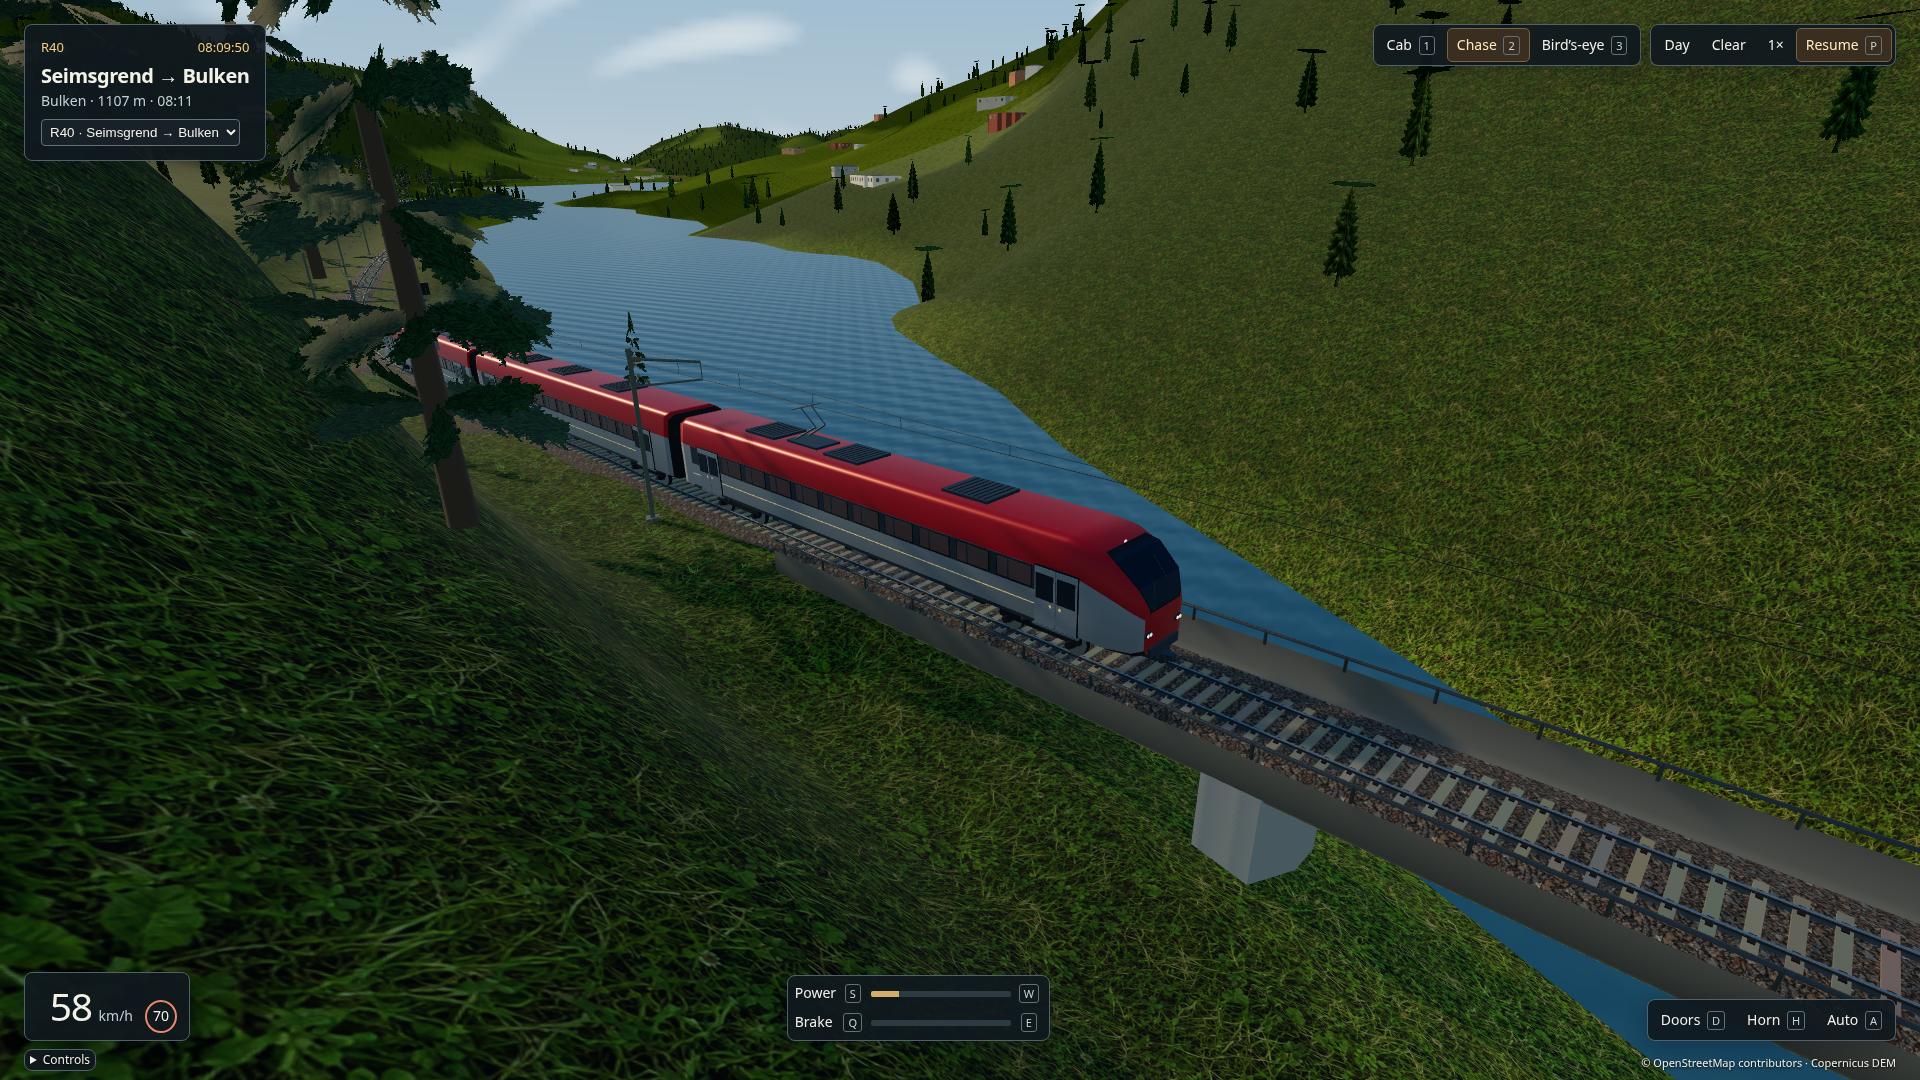
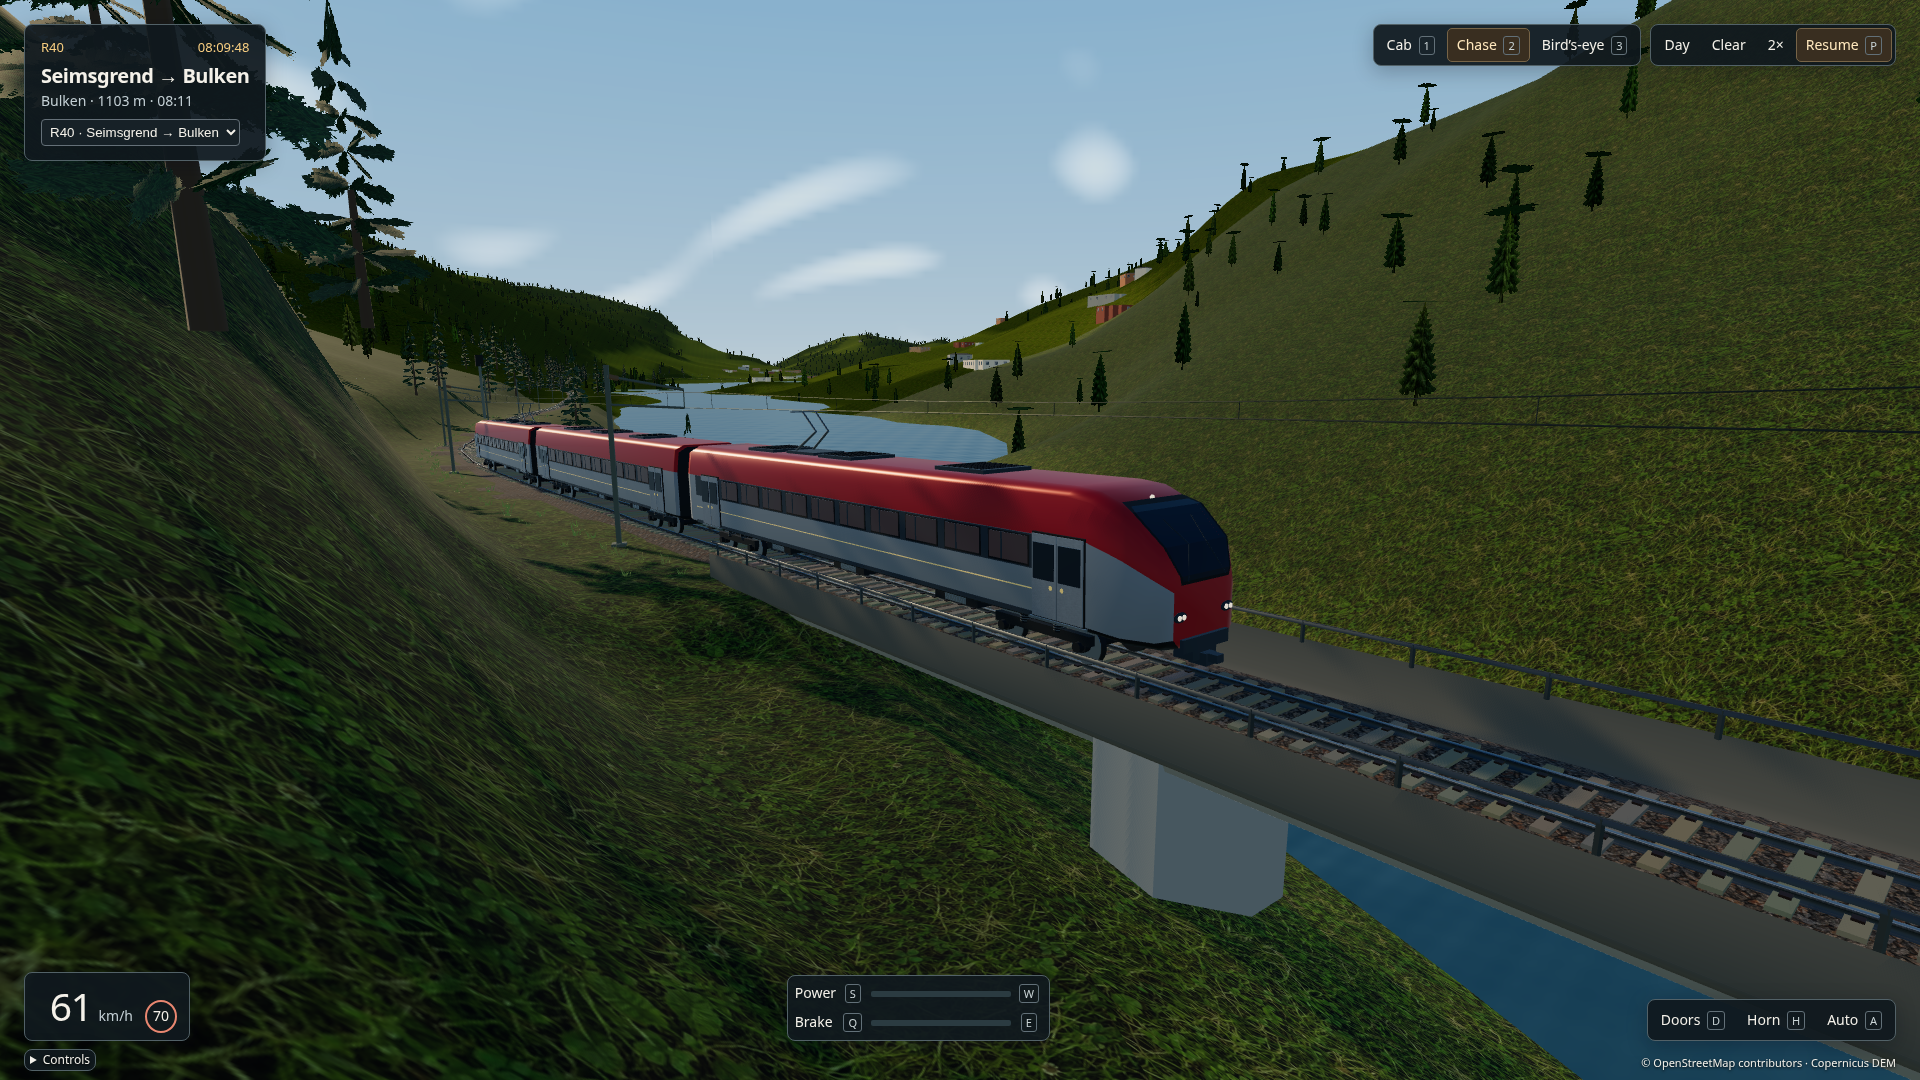
Record the manual Bulken arrival and preserve close scenery detail

diff --git a/src/scenery.ts b/src/scenery.ts
@@ -702,6 +702,9 @@ function addTrack(
   }
 
   const limited: { mesh: InstancedMesh; radius: number }[] = [];
+  const detailRange = new Map([
+    [ties, 290], [fasteners, 180], [conductors, 310], [porcelain, 190],
+  ]);
   for (const [surface, entries] of [
     [sleeper, ties], [clips, fasteners], [support, posts], [wire, conductors],
     [insulator, porcelain], [concrete, piers], [steel, bridgeDetail],
@@ -713,9 +716,8 @@ function addTrack(
       if (entries === piers) detail.name = 'Bridge pier';
       if (entries === bridgeDetail) detail.name = 'Bridge railing';
       detail.castShadow = entries !== fasteners && entries !== conductors;
-      if (entries === ties || entries === fasteners) {
-        limited.push({ mesh: detail, radius: entries === ties ? 520 : 220 });
-      }
+      const radius = detailRange.get(entries);
+      if (radius !== undefined) limited.push({ mesh: detail, radius });
       group.add(detail);
     }
   }
@@ -1608,12 +1610,18 @@ function addForests(
   const silhouettes = distantSpruceGeometry();
   const trunk = new CylinderGeometry(0.3, 0.6, 1, 6);
   const bark = material(0x504234);
+  const nearDetails: { spruce: InstancedMesh; trunks: InstancedMesh; distant: InstancedMesh }[] = [];
   for (const tile of tiles.values()) {
     if (tile.near.length) {
       const spruce = aggregate(sprays, foliage, tile.near);
       spruce.name = 'Trackside spruce';
       spruce.castShadow = true;
-      group.add(spruce, aggregate(trunk, bark, tile.trunks));
+      const trunks = aggregate(trunk, bark, tile.trunks);
+      const distant = aggregate(silhouettes, distantFoliage, tile.near);
+      distant.name = 'Trackside spruce canopy';
+      distant.visible = false;
+      nearDetails.push({ spruce, trunks, distant });
+      group.add(spruce, trunks, distant);
     }
     if (tile.far.length) {
       const canopy = aggregate(silhouettes, distantFoliage, tile.far);
@@ -1621,6 +1629,14 @@ function addForests(
       group.add(canopy);
     }
   }
+  return (camera: Vector3) => {
+    for (const { spruce, trunks, distant } of nearDetails) {
+      const bounds = spruce.boundingSphere;
+      const detailed = bounds ? camera.distanceToSquared(bounds.center) <= (bounds.radius + 175) ** 2 : true;
+      spruce.visible = trunks.visible = detailed;
+      distant.visible = !detailed;
+    }
+  };
 }
 
 type SignalAspect = 'clear' | 'approach' | 'stop';
@@ -1925,7 +1941,7 @@ export function createScenery(data: WorldData, rail: Rail, maps: SceneryMaps = {
   addParallelTracks(group, data, nearby, ballast);
   addWater(group, data, water);
   addBuildings(group, data, windows, roofs, maps.siding, nearby);
-  addForests(group, data, nearby, foliage, distantFoliage, placement?.ownsCell);
+  const applyForestDetail = addForests(group, data, nearby, foliage, distantFoliage, placement?.ownsCell);
   const grass = addTracksideGrass(group, data, rail, nearby);
   const setSignal = addSignals(group, data, nearby);
   const bulbs = addPlatforms(group, data, rail, concrete, fixtures, nearby);
@@ -1960,6 +1976,7 @@ export function createScenery(data: WorldData, rail: Rail, maps: SceneryMaps = {
   const update = (seconds: number, camera: Vector3) => {
     grass.applyDistance(camera);
     applyTrackDetail(camera);
+    applyForestDetail(camera);
     for (const tile of terrainTiles) {
       const bounds = tile.geometry.boundingBox;
       const detailed = bounds && bounds.distanceToPoint(camera) <= 210;

diff --git a/PROGRESS.md b/PROGRESS.md
@@ -82,3 +82,9 @@ The first station-pair checkpoint is in progress. It still needs a validated ser
 - The second cab sample recorded 12.48 ms on the SwiftShader CPU proxy, despite reducing the last frame to 274 draws. The chase view measured 6.63 ms. A separate phase trace found most of the cab work inside the WebGL render call.
 - Instanced moving door components and merged rigid opaque stock casters for the depth pass. The tests check both door sides, texture and shadow flags, and retained geometry. Added a wider cached shadow view for the cab and high map, kept live stock shadows where the train is visible, and draw opaque cockpit depth before scenery.
 - The fresh 1080p check will run on the latest build after the driving and earlier browser sessions close.
+- Added distance-based scenery detail for high viewpoints. The detailed trees, fasteners, wires and insulators remain available close to the route and at platform zoom.
+
+## Manual arrival
+
+- Drove the R40 in Chromium with the in-game autopilot off and switched through cab, chase and bird’s-eye view. After braking at Bulken and opening the doors, the HUD reported 74/100, a 2.1 m stopping error and arrival 34 seconds late.
+- Captured the bridge, tunnel and station at 1920 × 1080 in the same service. The run finished with zero browser console errors.

diff --git a/evidence/README.md b/evidence/README.md
@@ -14,7 +14,7 @@ The [latest capture log](r40-final-captures.txt) records all nine views, zero co
 
 The [independent station audit](station-membership.txt) checks each displayed name and its coordinates against the pinned OSM extract. It traces nearby stations excluded from the simulation to their actual track. [Reproduction and source digests](station-membership.md)
 
-The browser drive captured the [river bridge](bridge.png) in chase view and the [Bulken tunnel](tunnel.png) from the cab.
+The [manual Chromium run](manual-drive.txt) departed Seimsgrend, switched through all three cameras and scored 74/100 after stopping 2.1 m from Bulken’s marker. It captured the [river bridge](bridge.png), the [Bulken tunnel](tunnel.png), and the [arrival at Bulken](station.png) at 1080p.
 
 The [data rebuild output](data-rebuild.txt) records a full run of `npm run data` and the SHA-256 comparison of its public assets with the committed copies.
 
